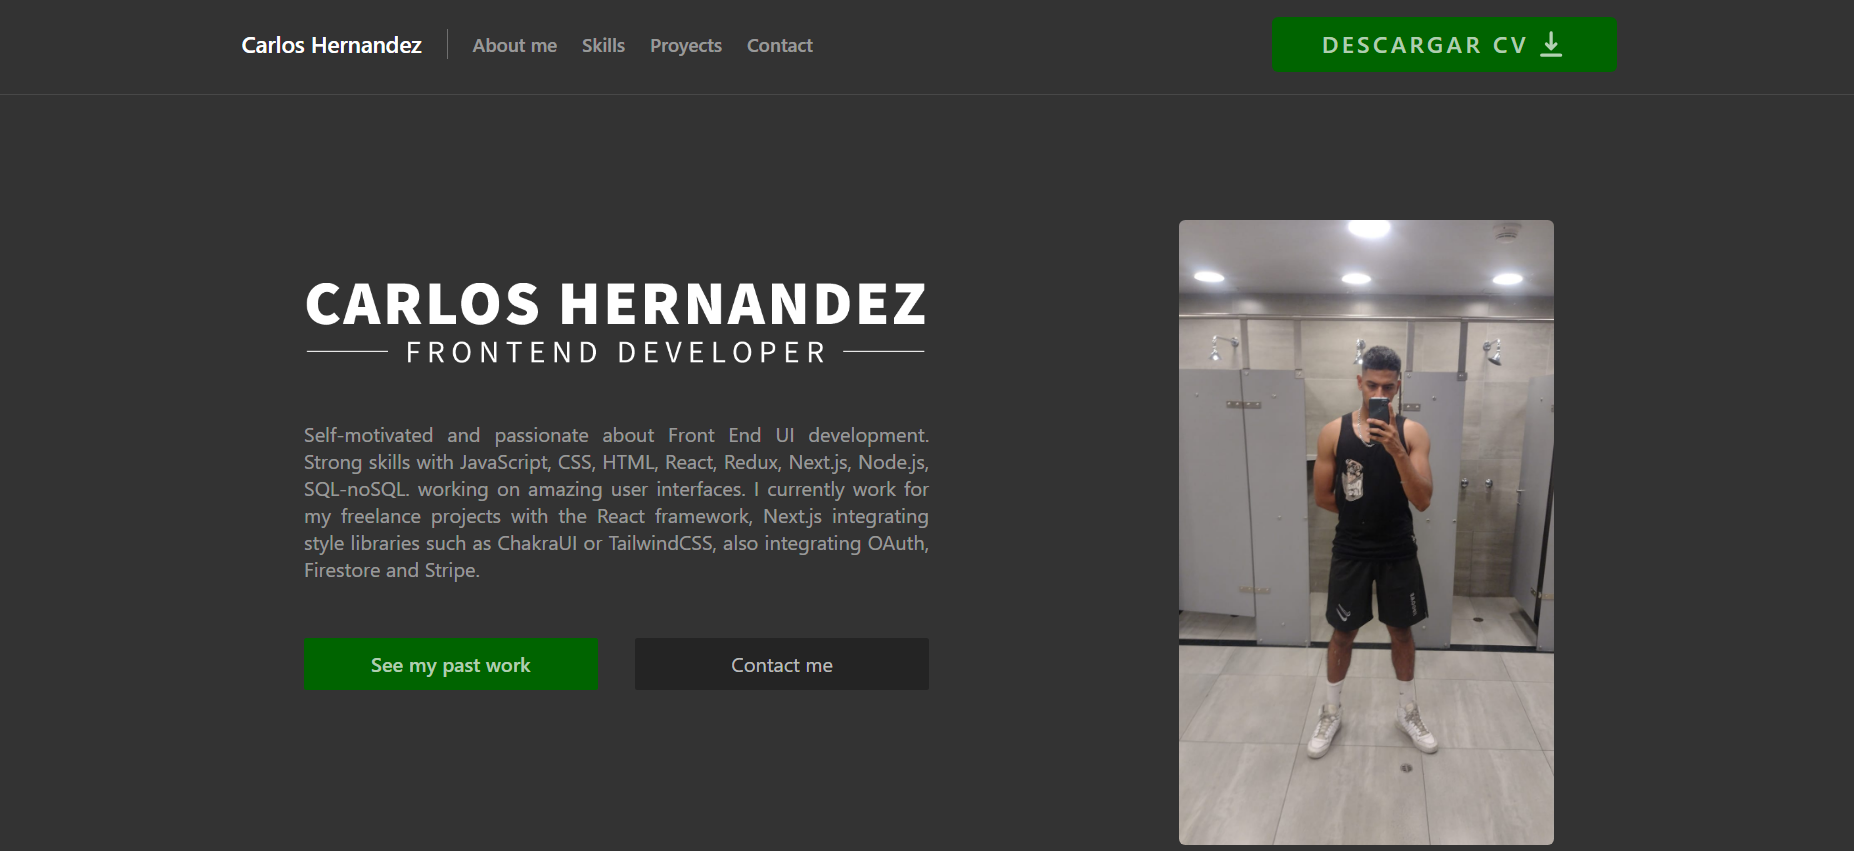
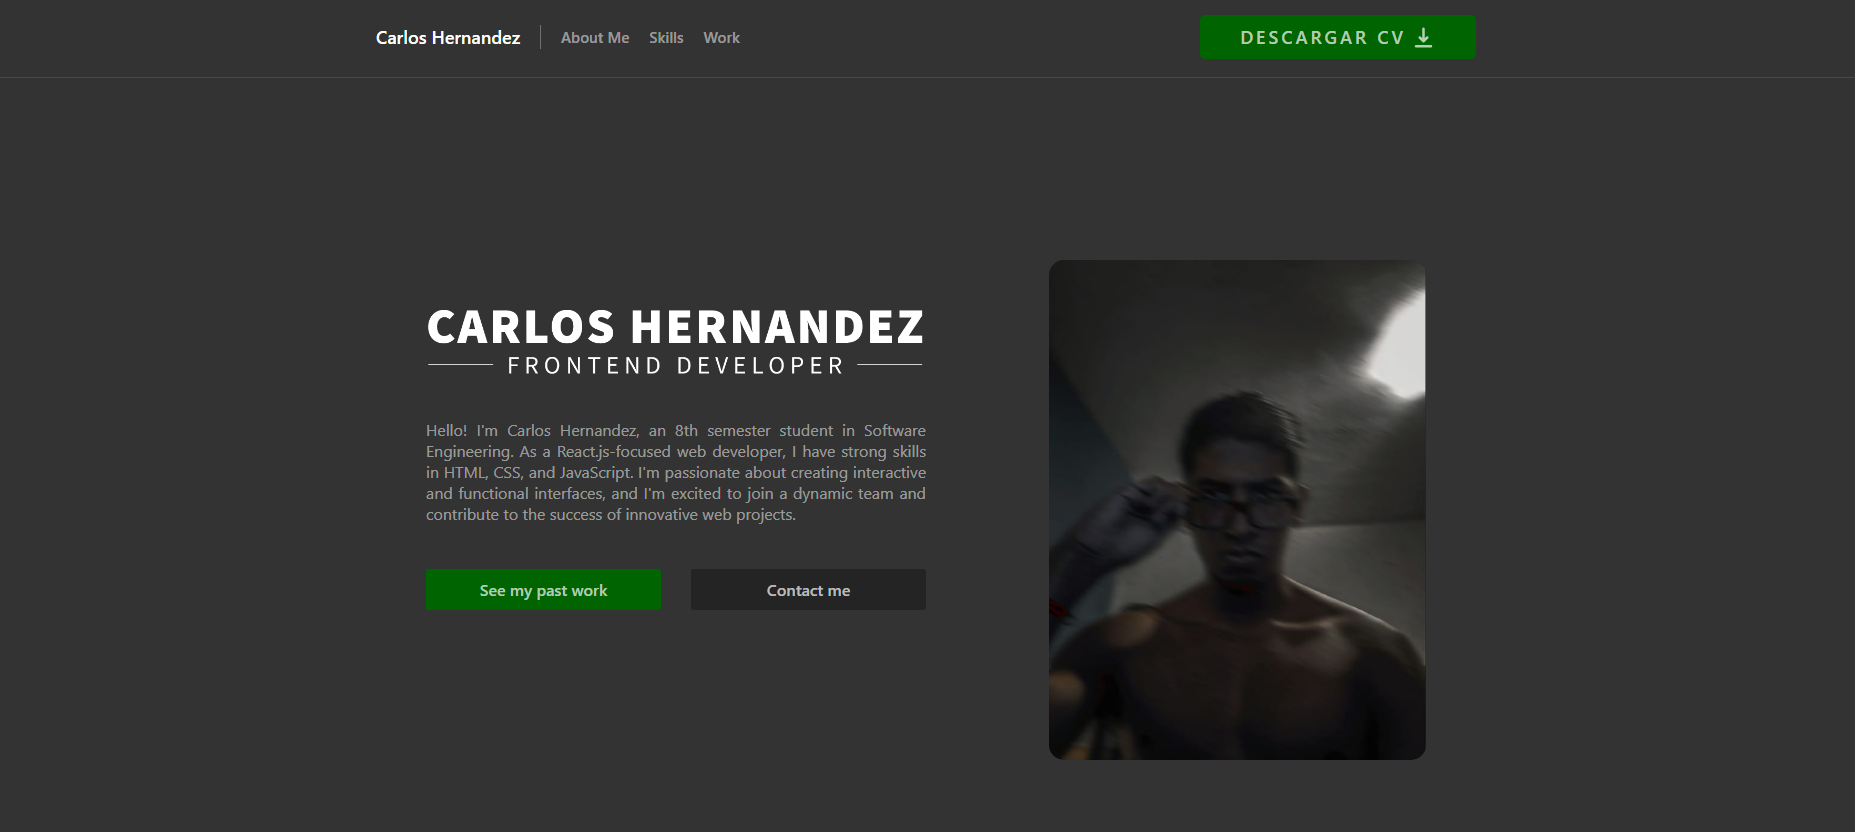
chanche image aboutme

diff --git a/src/components/organisms/about_me/aboutMe.jsx b/src/components/organisms/about_me/aboutMe.jsx
@@ -2,7 +2,7 @@ import React from "react";
 import { Link as ScrollLink, Element } from "react-scroll";
 import "./aboutMe.scss";
 import logo from "../../../img/logo.png";
-import img from "../../../img/pp2.jpg";
+import img from "../../../img/pp3.jpeg";
 
 function AboutMe() {
   return (
